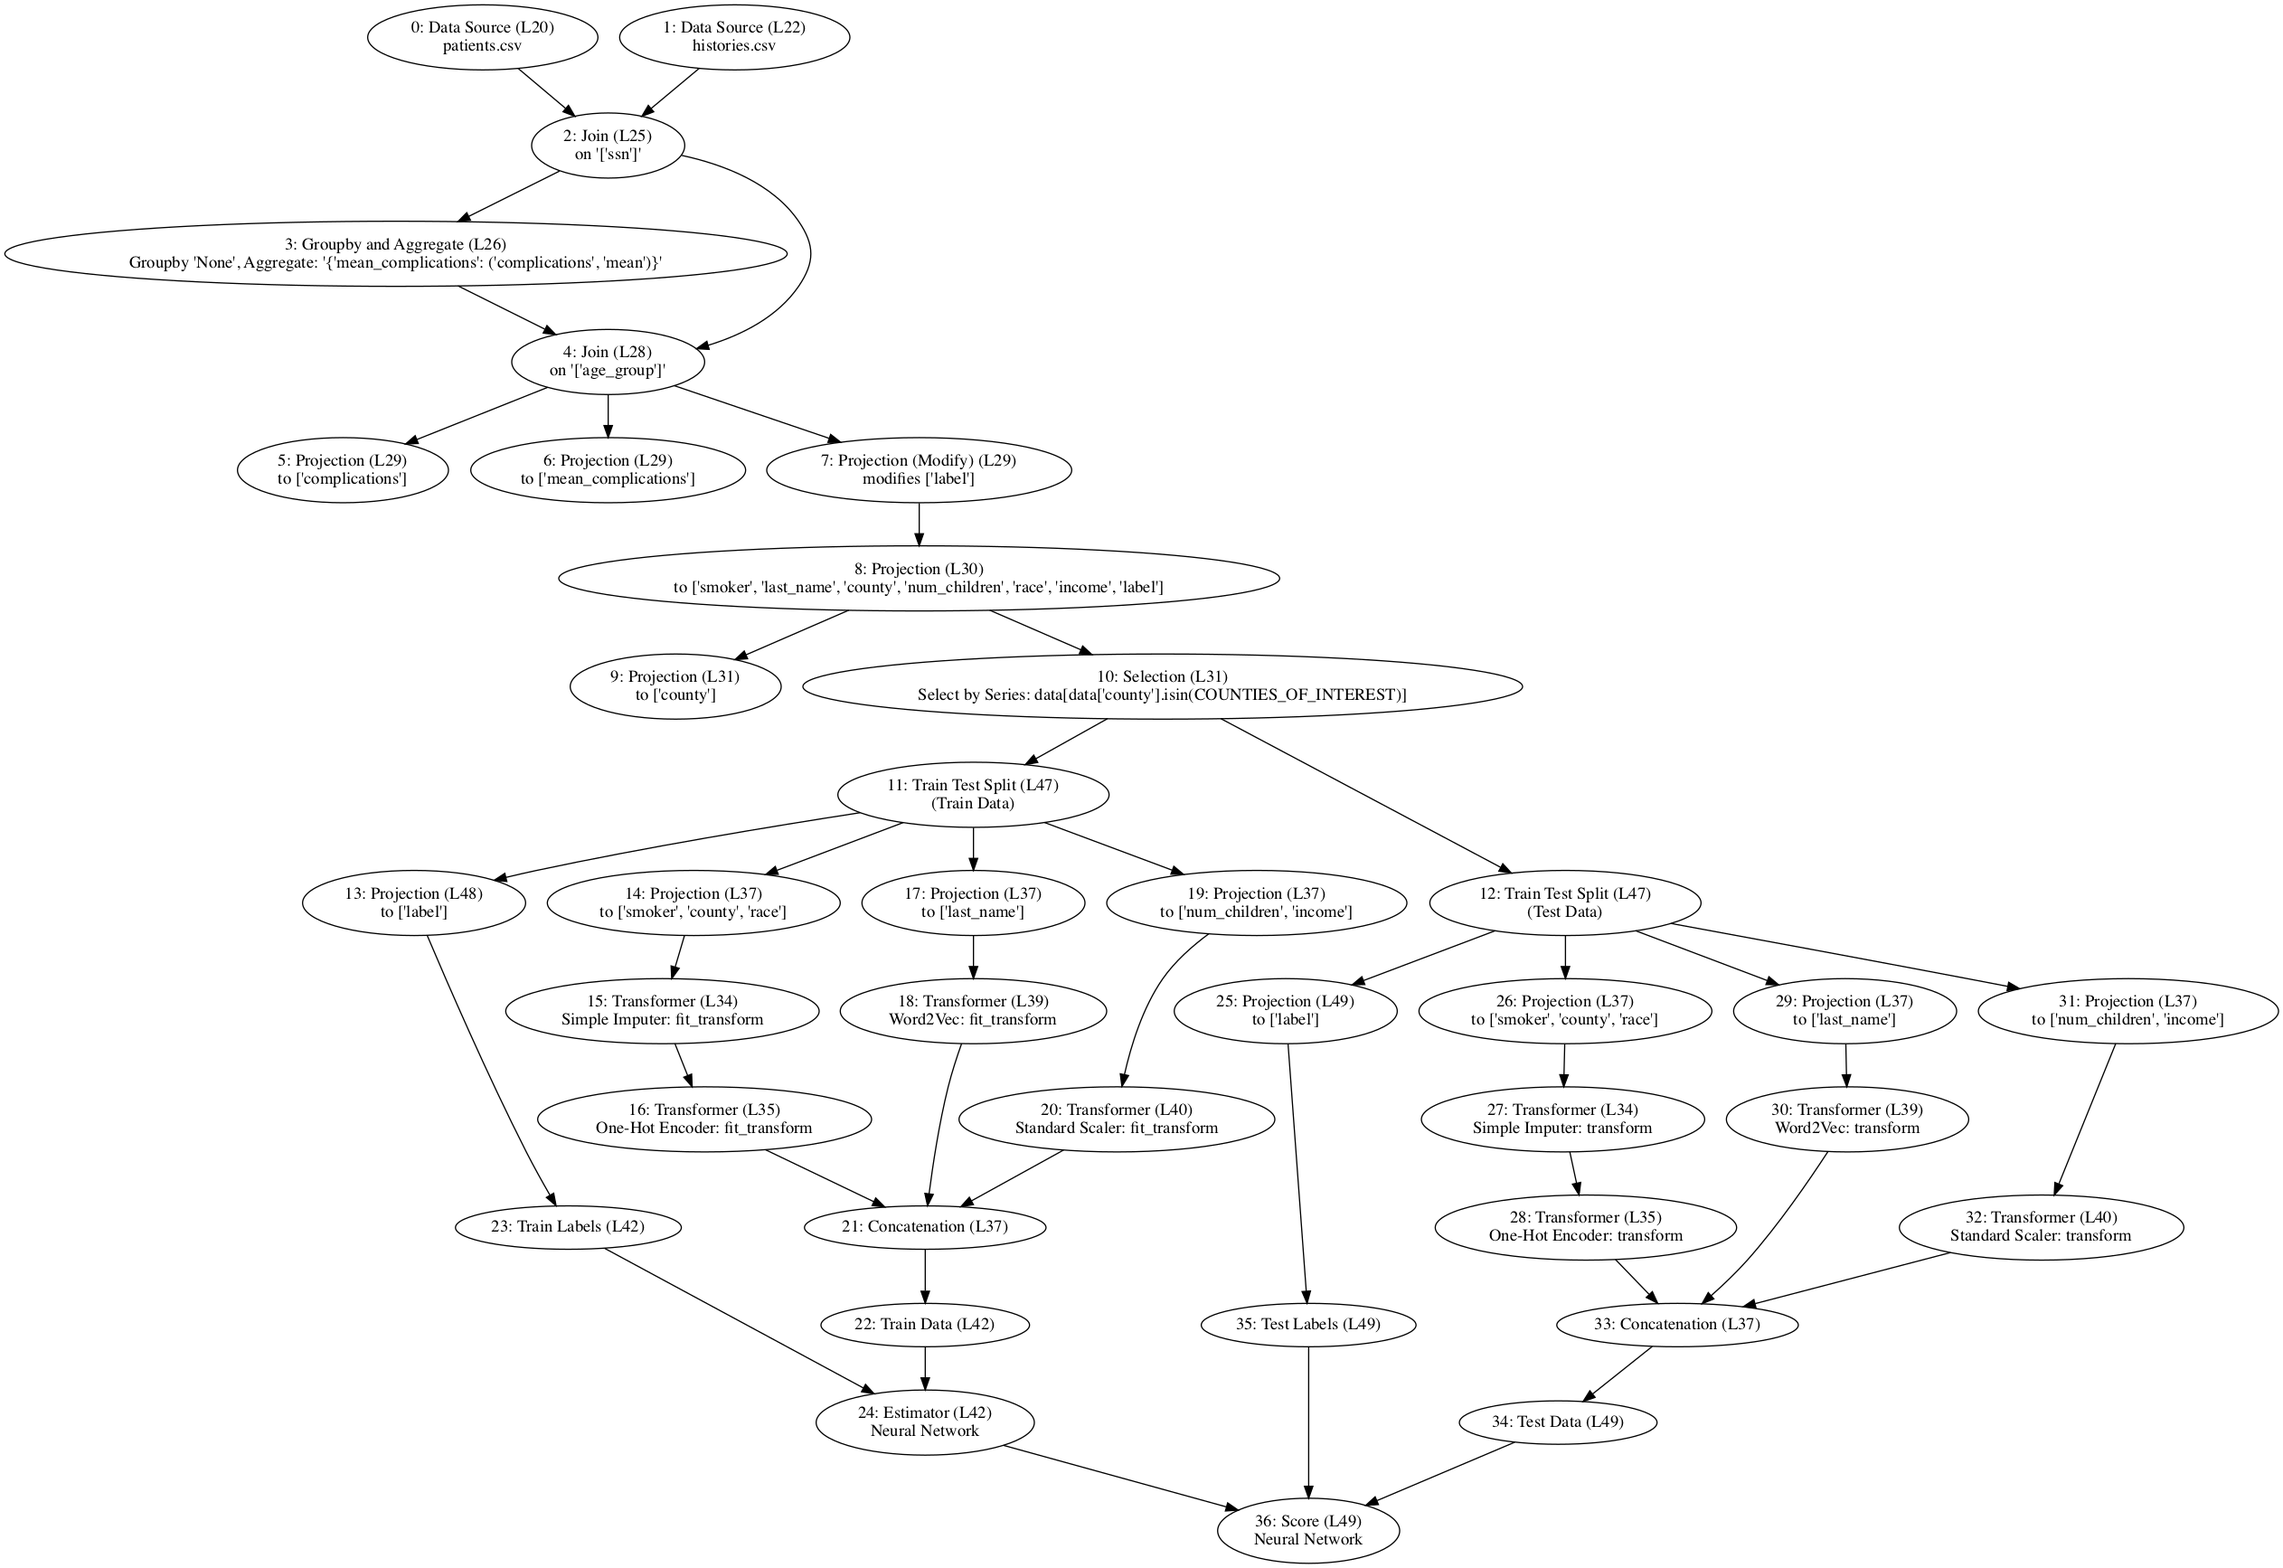
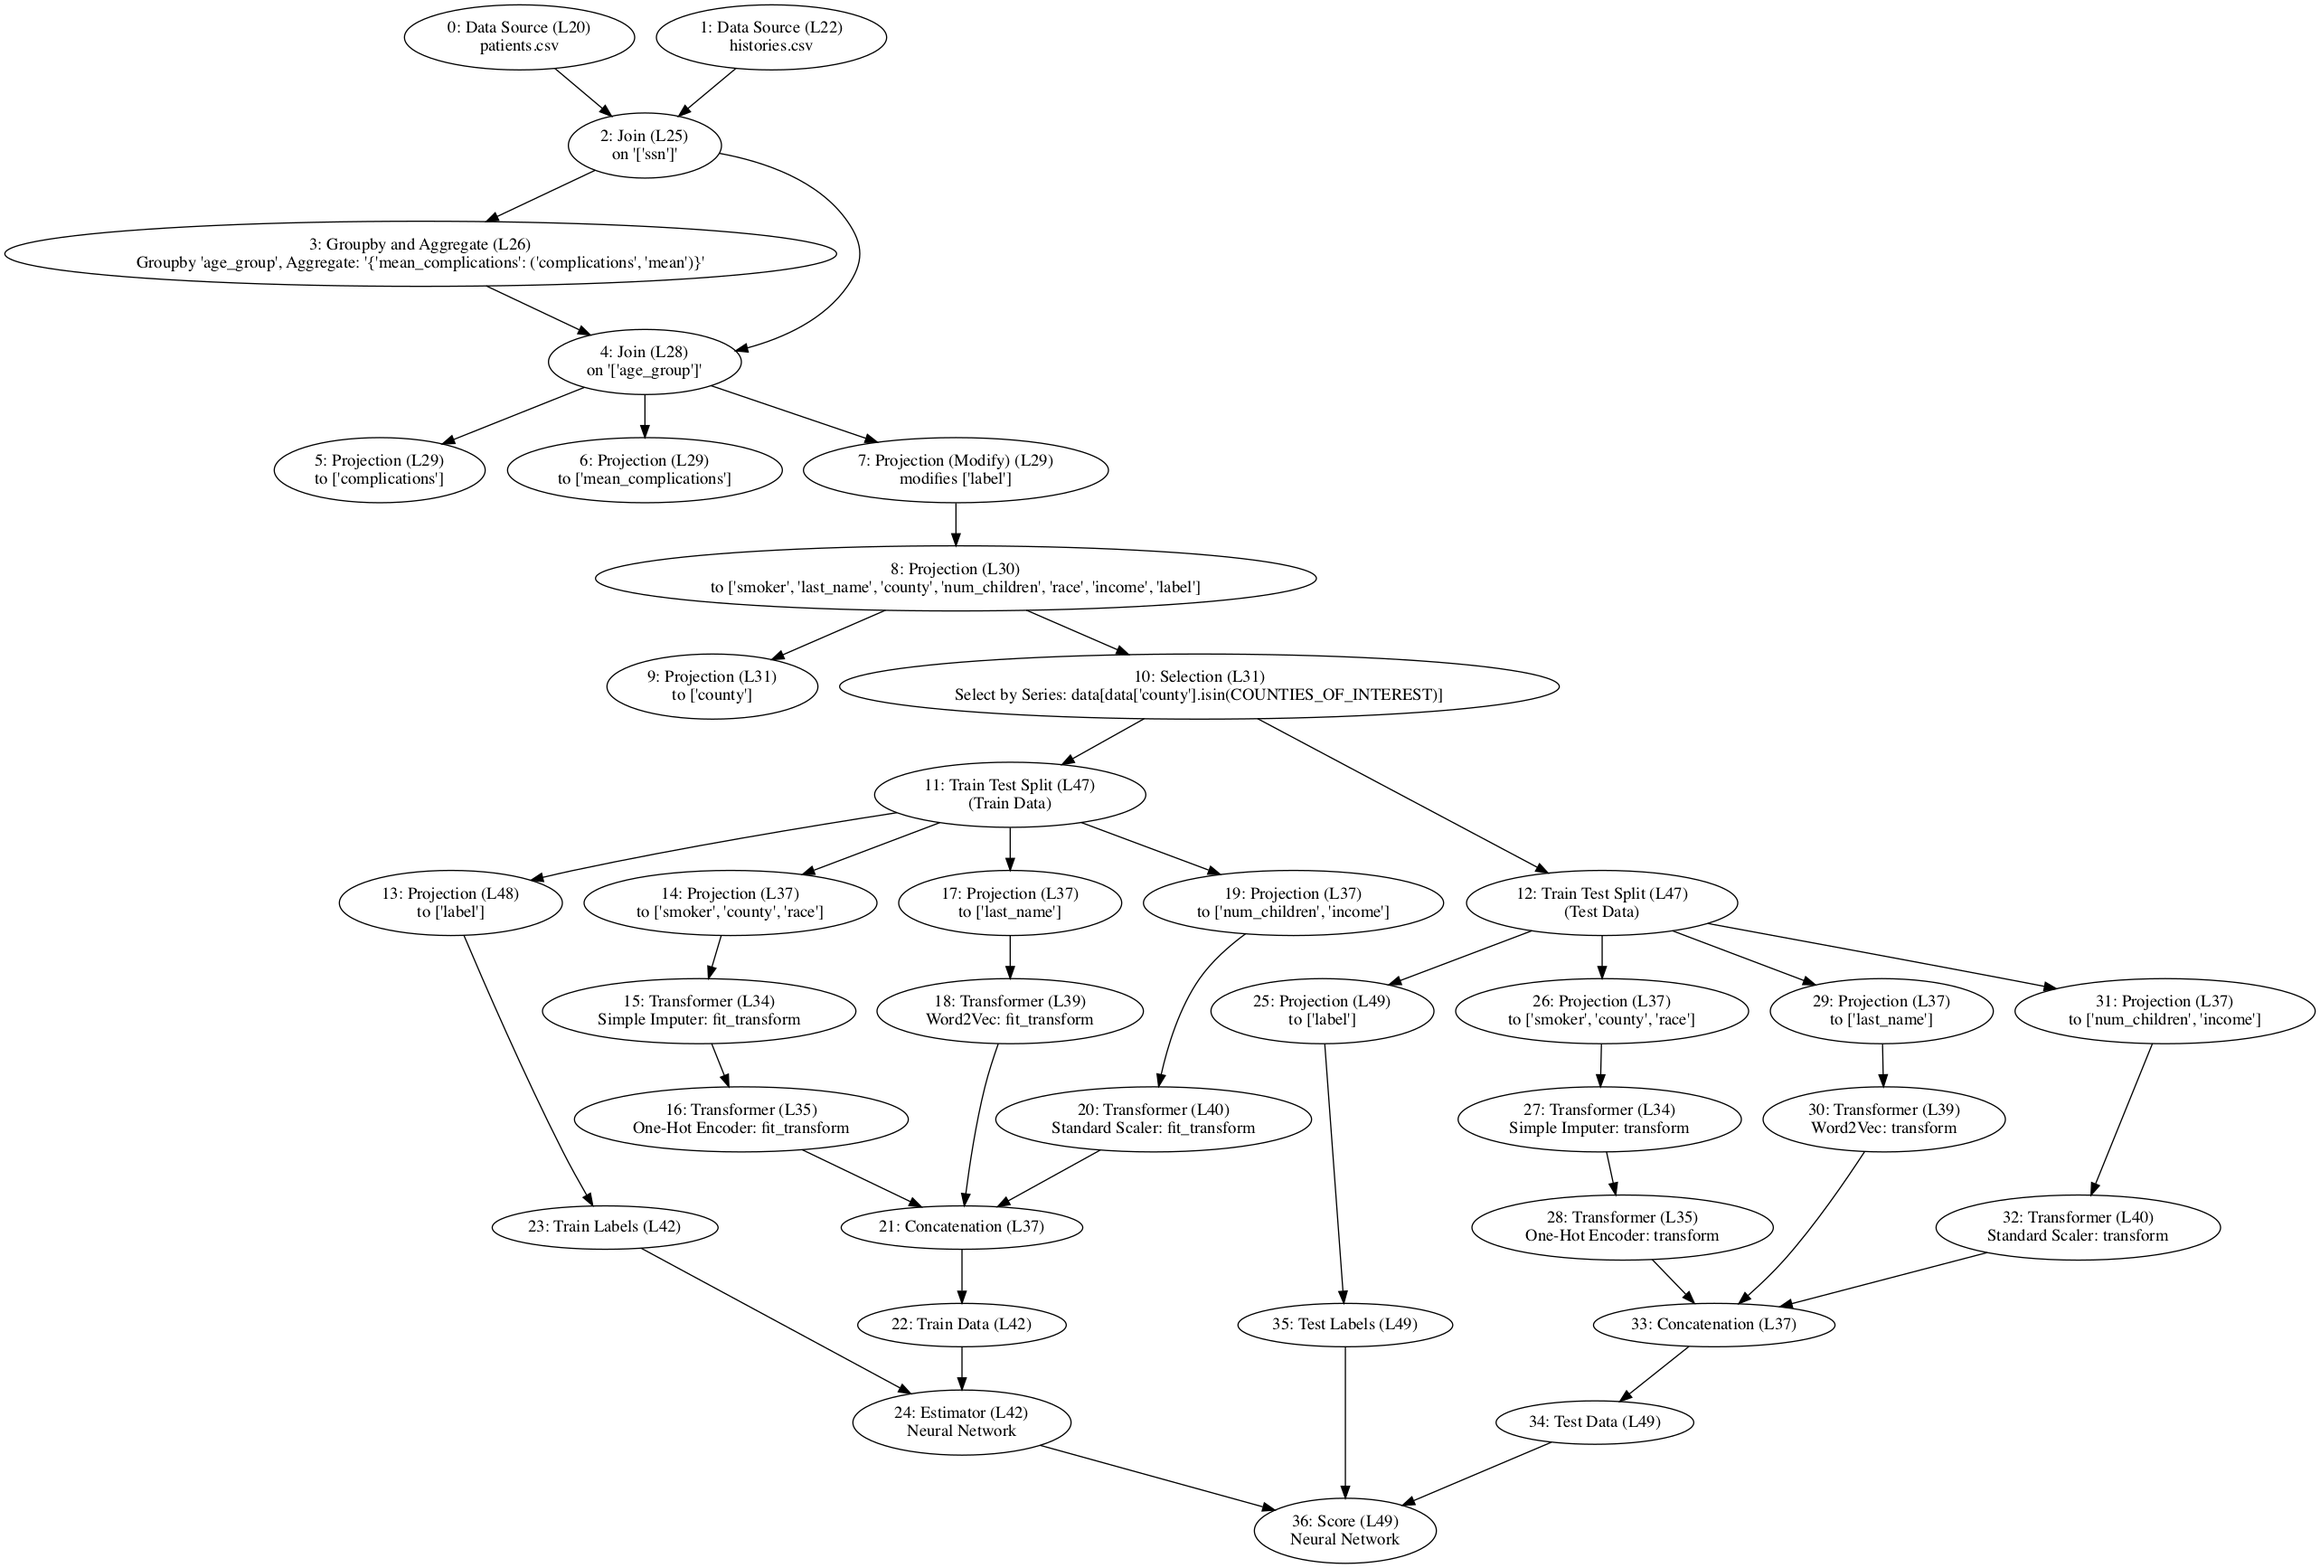
Lineage-Opt works but only if it is the only inspection, no ArgCapturing support yet

diff --git a/mlinspect/monkeypatching/_patch_pandas.py b/mlinspect/monkeypatching/_patch_pandas.py
@@ -340,6 +340,7 @@ class DataFrameGroupByPatching:
 
         def execute_inspections(op_id, caller_filename, lineno, optional_code_reference, optional_source_code):
             """ Execute inspections, add DAG node """
+            # pylint: disable=too-many-locals
             function_info = FunctionInfo('pandas.core.groupby.generic', 'agg')
             if not hasattr(self, '_mlinspect_dag_node'):
                 raise NotImplementedError("TODO: Support agg if groupby happened in external code")
@@ -352,12 +353,16 @@ class DataFrameGroupByPatching:
             backend_result = PandasBackend.after_call(operator_context,
                                                       input_infos,
                                                       result)
-
-            if len(args) > 0:
-                description = "Groupby '{}', Aggregate: '{}'".format(result.index.name, args)
+            if result.index.name is not None:
+                groupby_column = result.index.name
+                columns = [result.index.name] + list(result.columns)
             else:
-                description = "Groupby '{}', Aggregate: '{}'".format(result.index.name, kwargs)
-            columns = [result.index.name] + list(result.columns)
+                groupby_column = list(result.columns)[0]
+                columns = list(result.columns)
+            if len(args) > 0:
+                description = "Groupby '{}', Aggregate: '{}'".format(groupby_column, args)
+            else:
+                description = "Groupby '{}', Aggregate: '{}'".format(groupby_column, kwargs)
             dag_node = DagNode(op_id,
                                BasicCodeLocation(caller_filename, lineno),
                                operator_context,

diff --git a/mlinspect/testing/_testing_helper_utils.py b/mlinspect/testing/_testing_helper_utils.py
@@ -7,14 +7,8 @@ from inspect import cleandoc
 import networkx
 from pandas import DataFrame
 
-from demo.feature_overview.missing_embeddings import MissingEmbeddings
 from mlinspect import OperatorContext, FunctionInfo, OperatorType
 from mlinspect._pipeline_inspector import PipelineInspector
-from mlinspect.checks import SimilarRemovalProbabilitiesFor
-from mlinspect.checks._no_bias_introduced_for import NoBiasIntroducedFor
-from mlinspect.checks._no_illegal_features import NoIllegalFeatures
-from mlinspect.inspections import HistogramForColumns, IntersectionalHistogramForColumns, CompletenessOfColumns, \
-    CountDistinctOfColumns, ColumnPropagation
 from mlinspect.inspections._lineage import RowLineage
 from mlinspect.inspections._materialize_first_output_rows import MaterializeFirstOutputRows
 from mlinspect.instrumentation._dag_node import DagNode, CodeReference, BasicCodeLocation, DagNodeDetails, \
@@ -235,7 +229,7 @@ def run_multiple_test_analyzers(code):
     return dag_node_to_inspection_results, analyzers
 
 
-def run_and_assert_all_op_outputs_inspected(py_file_path, sensitive_columns, dag_png_path, custom_monkey_patching=None):
+def run_and_assert_all_op_outputs_inspected(py_file_path, _, dag_png_path, custom_monkey_patching=None):
     """
     Execute the pipeline with a few checks and inspections.
     Assert that mlinspect properly lets inspections inspect all DAG nodes

diff --git a/mlinspect/backends/_pandas_backend.py b/mlinspect/backends/_pandas_backend.py
@@ -84,11 +84,10 @@ class PandasBackend(Backend):
                                                  in lineage_inspection.operator_type_restriction)
                 if materialize_for_this_operator:
                     if operator_context.operator == OperatorType.DATA_SOURCE:
-                        reset_index_return_value = return_value.reset_index(drop=True)
+                        return_value.reset_index(drop=True, inplace=True)
                     else:
                         return_value.reset_index(drop=False, inplace=True)
-                        reset_index_return_value = return_value
-                    lineage_dag_annotation = pandas.concat([reset_index_return_value, annotations_df], axis=1)
+                    lineage_dag_annotation = pandas.concat([return_value, annotations_df], axis=1)
                     if lineage_inspection.row_count != RowLineage.ALL_ROWS:
                         lineage_dag_annotation = lineage_dag_annotation.head(lineage_inspection.row_count)
                     lineage_dag_annotation = lineage_dag_annotation.rename(

diff --git a/test/monkeypatching/test_patch_pandas.py b/test/monkeypatching/test_patch_pandas.py
@@ -572,7 +572,7 @@ def test_groupby_agg():
         df_groupby_agg = df.groupby('group').agg(mean_value=('value', 'mean'))
         
         df_expected = pd.DataFrame({'group': ['A', 'B', 'C'], 'mean_value': [1, 3, 3]})
-        pd.testing.assert_frame_equal(df_groupby_agg.reset_index(drop=False), df_expected.reset_index(drop=True))
+        pd.testing.assert_frame_equal(df_groupby_agg.reset_index(drop=False), df_expected.reset_index(drop=False))
         """)
     inspector_result = _pipeline_executor.singleton.run(python_code=test_code, track_code_references=True,
                                                         inspections=[RowLineage(2)])

diff --git a/mlinspect/backends/_sklearn_backend.py b/mlinspect/backends/_sklearn_backend.py
@@ -47,7 +47,7 @@ class SklearnBackend(Backend):
                    non_data_function_args: Dict[str, any] = MappingProxyType({})) \
             -> BackendResult:
         """The return value of some function"""
-        # pylint: disable=too-many-arguments
+        # pylint: disable=too-many-arguments,too-many-locals,too-many-branches,too-many-statements,cell-var-from-loop
         if len(singleton.inspections) == 1 and isinstance(singleton.inspections[0], RowLineage):
             print("optimized mode")
             if operator_context.operator == OperatorType.DATA_SOURCE:
